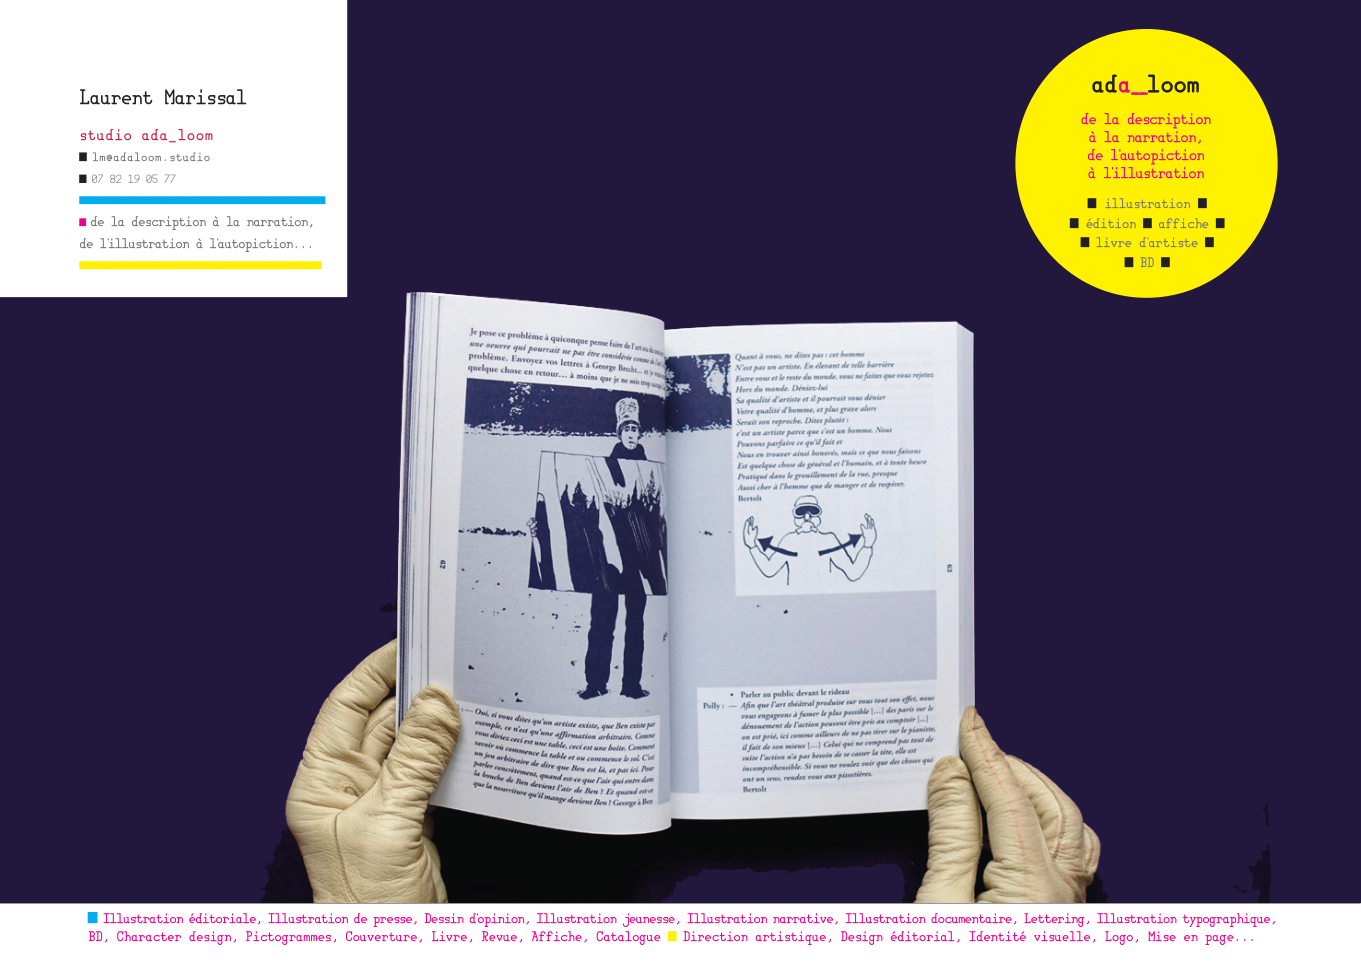
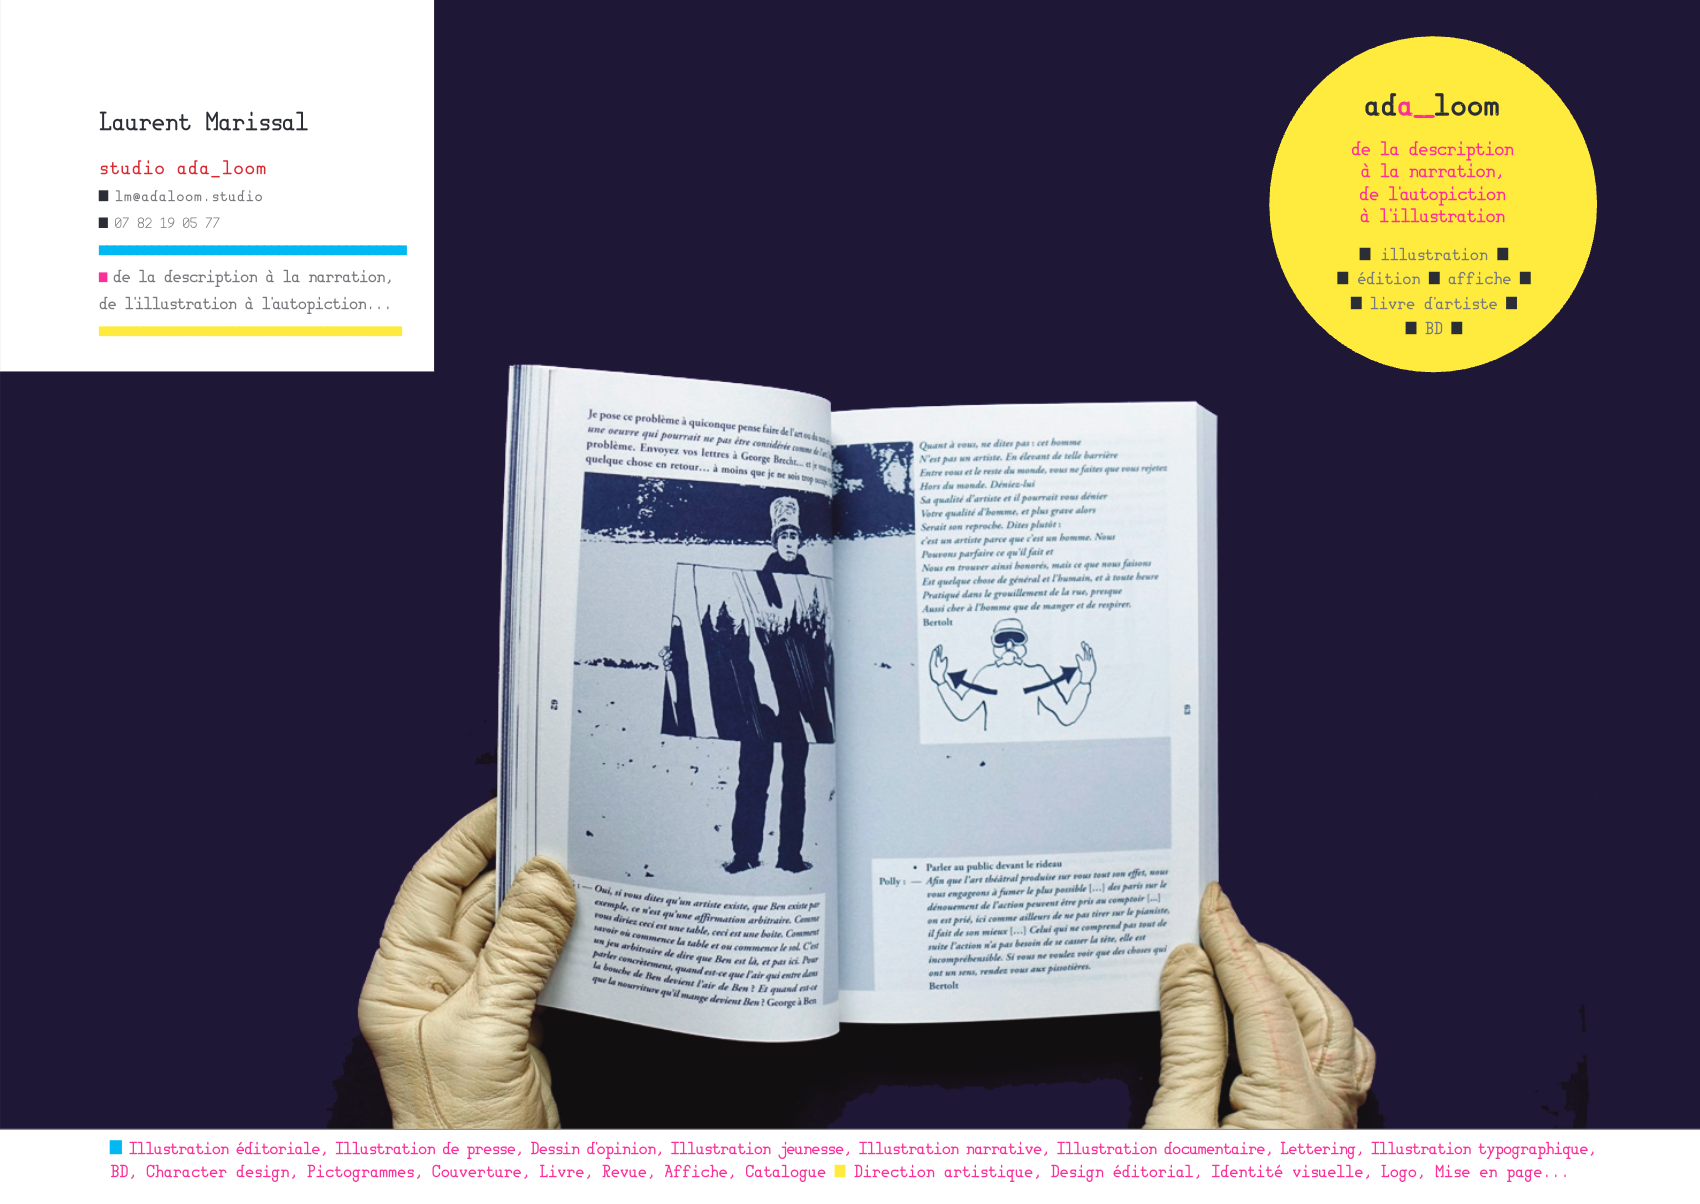
Corriger pagination PDF et cover
- Revenir à page 1 comme première page du PDF (au lieu de page 2)
- Remplacer cover.png par illustrateur_couv.png (image correcte du book)

diff --git a/illustration.html b/illustration.html
@@ -304,7 +304,7 @@
     try {
       pdfDoc = await pdfjsLib.getDocument('book_illustrateur-2.pdf').promise;
       document.getElementById('lbTot').textContent = pdfDoc.numPages;
-      renderPage(2);
+      renderPage(1);
     } catch(e){
       console.error('Erreur PDF:', e);
       document.getElementById('pdf-canvas').textContent = 'Erreur: PDF non trouvé';
